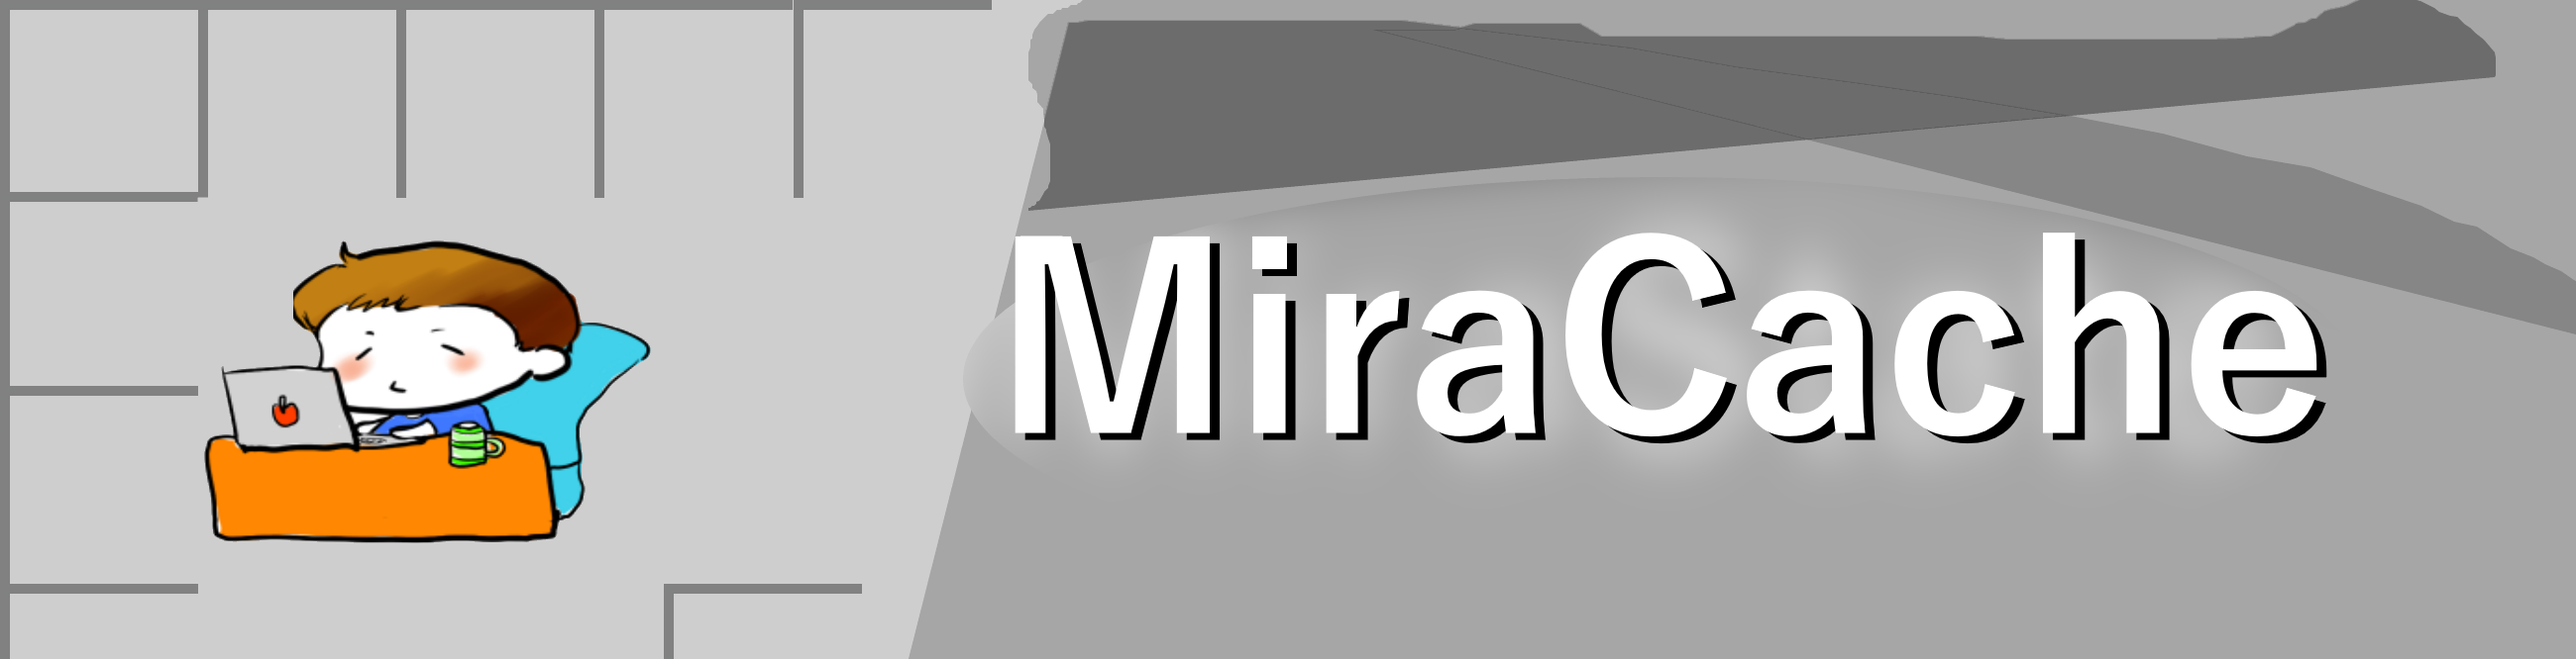
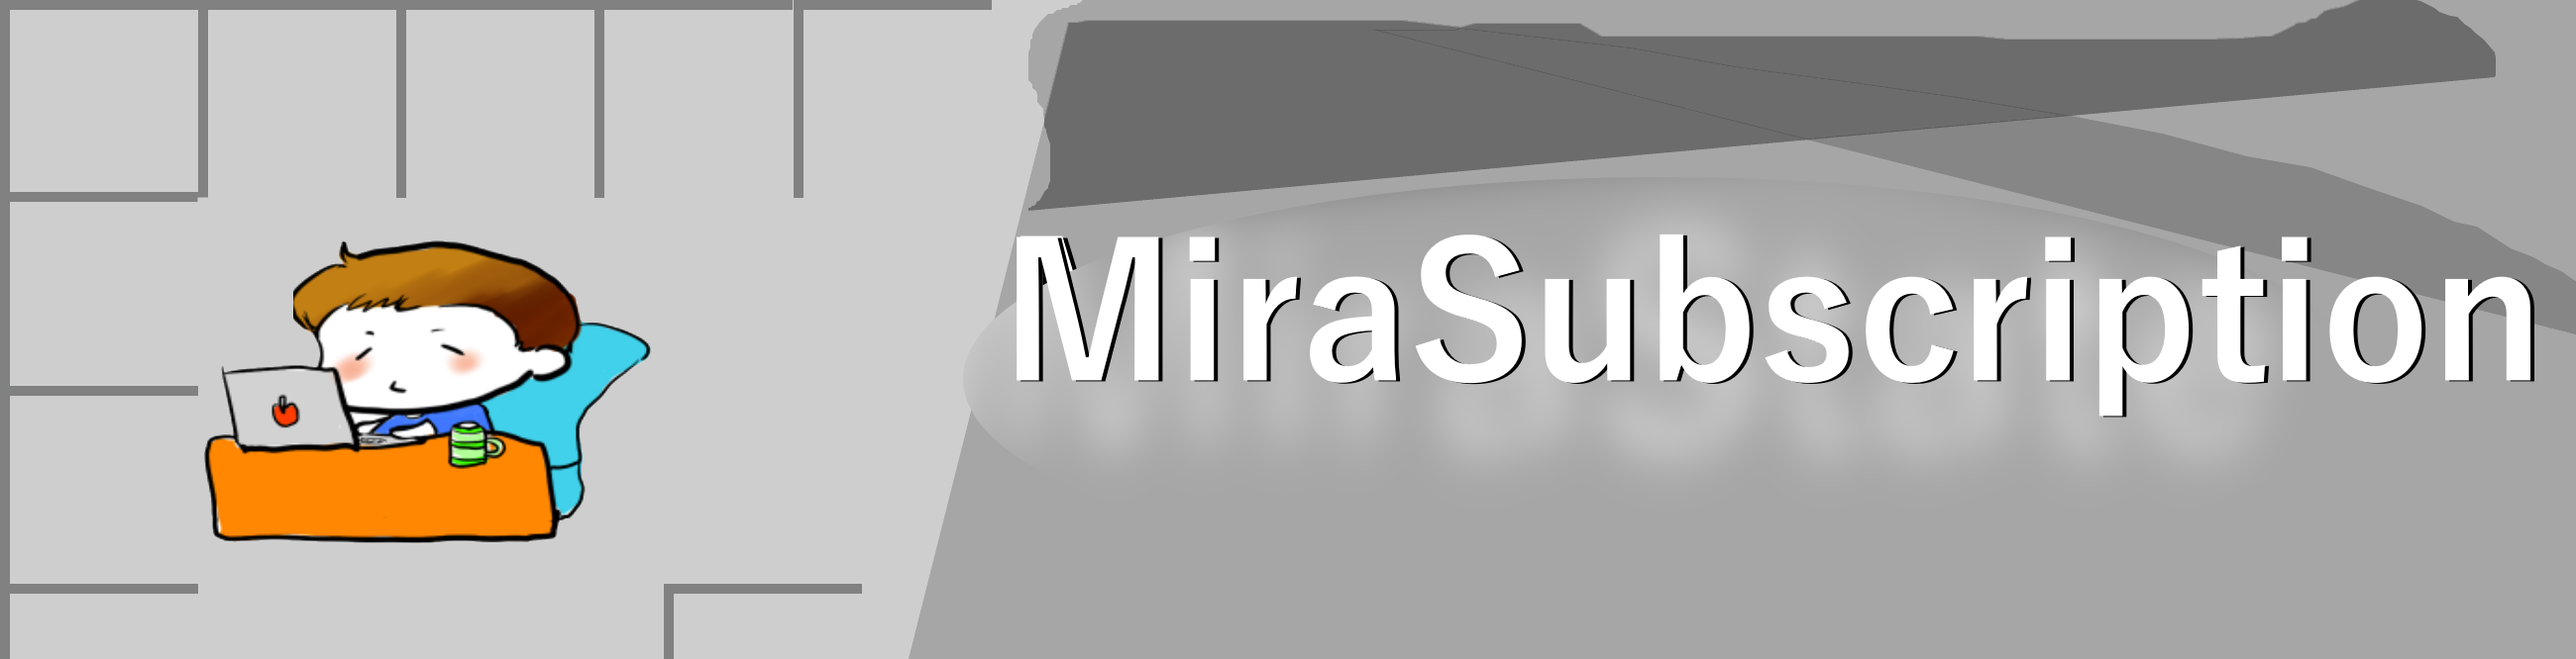
thumbnail

Changed region(s): [[0.3738, 0.3303, 0.9969, 0.6907]]

diff --git a/README.md b/README.md
@@ -6,7 +6,7 @@ For more info, see subscription-sample.script.
 
 Add https://github.com/stepism/defold-mira-subscribe/archive/master.zip as a dependency in your game.project file.
 Fetch library using the main menu: Project -> Fetch Libraries.
-Enable the module adding local mira_cache = require("miraSubscribe.subscribe") at the beginning of your script.
+Enable the module adding local subscription = require("miraSubscribe.subscribe") at the beginning of your script.
 
 
 
